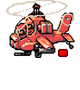
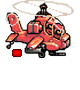
* Added Ranger sprites. * Flipped (almost) all sprites to be facing right. Default facing direction now must be right.

diff --git a/MobileClient/www/Assets/Render/SpriteAnimations/FightUnits/PeaceKeeperFight.js b/MobileClient/www/Assets/Render/SpriteAnimations/FightUnits/PeaceKeeperFight.js
@@ -65,10 +65,65 @@ SpriteAnimations.FightUnits.PeaceKeeper = {
 };
 
 // TODO: These units don't have sprites yet. Remove this when they do!
-SpriteAnimations.FightUnits.Ranger = $.extend(true, {}, SpriteAnimations.FightUnits.PeaceKeeper);
+//SpriteAnimations.FightUnits.Ranger = $.extend(true, {}, SpriteAnimations.FightUnits.PeaceKeeper);
 //SpriteAnimations.FightUnits.HoverCannon = $.extend(true, {}, SpriteAnimations.FightUnits.PeaceKeeper);
 SpriteAnimations.FightUnits.Comanche = $.extend(true, {}, SpriteAnimations.FightUnits.PeaceKeeper);
 SpriteAnimations.FightUnits.IonDrone = $.extend(true, {}, SpriteAnimations.FightUnits.PeaceKeeper);
+
+
+SpriteAnimations.FightUnits.Ranger = {
+
+	resourcePath: 'Ranger.png',
+
+	frameWidth: 180,
+	frameHeight: 170,
+	framesPerRow: 5,
+	anchorX: 80,
+	anchorY: 138,
+	
+	sequences: [
+		{
+			name: 'Idle',
+			startIndex: 0,
+			frames: 1,
+		},
+		
+		
+		{
+			name: 'Idle0',
+			speed: 15,
+			startIndex: 0,
+			frames: 1,
+		},
+		
+		{
+			name: 'Run',
+			speed: 15,
+			startIndex: 0,
+			frames: 1,
+		},
+
+		{
+			name: 'Attack',
+			speed: 10,
+			startIndex: 0,
+			frames: 1,
+
+			events: [
+				
+				{
+					frame: 0,
+					event: FightRenderingEvents.Animations.FIRE,
+					params: {
+						weaponType: FightUnitWeaponType.Shotgun,
+						final: true,
+					}
+				},
+			],
+		},
+
+	]
+};
 
 
 SpriteAnimations.FightUnits.HoverCannon = {

diff --git a/MobileClient/www/Javascript/Render/Systems/ActionsRenderingSystem.js b/MobileClient/www/Javascript/Render/Systems/ActionsRenderingSystem.js
@@ -135,11 +135,11 @@ ActionsRenderingSystem.ActionExecutors.AttackFightExecutor = function (m_executo
 		var attackerSprite = attacker.CTilePlaceableRendering.sprite;
 		var defenderSprite = defender.CTilePlaceableRendering.sprite;
 		if (attackerSprite.x < defenderSprite.x) {
-			attackerSprite.setXScale(-attackerForward);
-			defenderSprite.setXScale(defenderForward);
-		} else {
 			attackerSprite.setXScale(attackerForward);
 			defenderSprite.setXScale(-defenderForward);
+		} else {
+			attackerSprite.setXScale(-attackerForward);
+			defenderSprite.setXScale(defenderForward);
 		}
 		attackerSprite.update();
 		defenderSprite.update();
@@ -242,7 +242,7 @@ ActionsRenderingSystem.ActionExecutors.AttackExecutor = function (m_executor, m_
 			return animator.params.forwardDirection || 1;
 		}
 
-		return 1;
+		return -1;
 	}
 	
 	var finishAttackAnimation = function (placeable) {

diff --git a/MobileClient/www/index.html b/MobileClient/www/index.html
@@ -523,6 +523,7 @@
 
 			<script type="text/javascript" src="Assets/Render/SpriteAnimations/Units/TeslaTrooper.js"></script>
 			<script type="text/javascript" src="Assets/Render/SpriteAnimations/Units/PeaceKeeper.js"></script>
+			<script type="text/javascript" src="Assets/Render/SpriteAnimations/Units/Ranger.js"></script>
 			<script type="text/javascript" src="Assets/Render/SpriteAnimations/Units/FlakTrooper.js"></script>
 			<script type="text/javascript" src="Assets/Render/SpriteAnimations/Units/Nibbler.js"></script>
 

diff --git a/MobileClient/www/Assets/Render/SpriteAnimations/Units/Ranger.js b/MobileClient/www/Assets/Render/SpriteAnimations/Units/Ranger.js
@@ -1,13 +1,17 @@
 
-SpriteAnimations.Units.PeaceKeeper = {
+SpriteAnimations.Units.Ranger = {
 
-	resourcePath: 'PeaceKeeper.png',
+	resourcePath: 'Ranger.png',
 	
-	frameWidth: 74,
+	frameWidth: 78,
 	frameHeight: 72,
 	framesPerRow: 4,
 	anchorX: Animator.AnchorX.Center,
 	anchorY: 40,
+
+	params: {
+		forwardDirection: -1,
+	},
 	
 	sequences: [
 		{

diff --git a/MobileClient/www/Assets/Render/SpriteAnimations/Units/FlakTrooper.js b/MobileClient/www/Assets/Render/SpriteAnimations/Units/FlakTrooper.js
@@ -8,10 +8,6 @@ SpriteAnimations.Units.FlakTrooper = {
 	framesPerRow: 5,
 	anchorX: Animator.AnchorX.Center,
 	anchorY: 46,
-
-	params: {
-		forwardDirection: -1,
-	},
 	
 	sequences: [
 		{

diff --git a/MobileClient/www/Assets/Render/SpriteAnimations/Units/TeslaTrooper.js b/MobileClient/www/Assets/Render/SpriteAnimations/Units/TeslaTrooper.js
@@ -10,6 +10,10 @@ SpriteAnimations.Units.TeslaTrooper = {
 	
 	framesPerRow: 15,
 	speed: 10,
+
+	params: {
+		forwardDirection: -1,
+	},
 	
 	sequences: [
 		{
